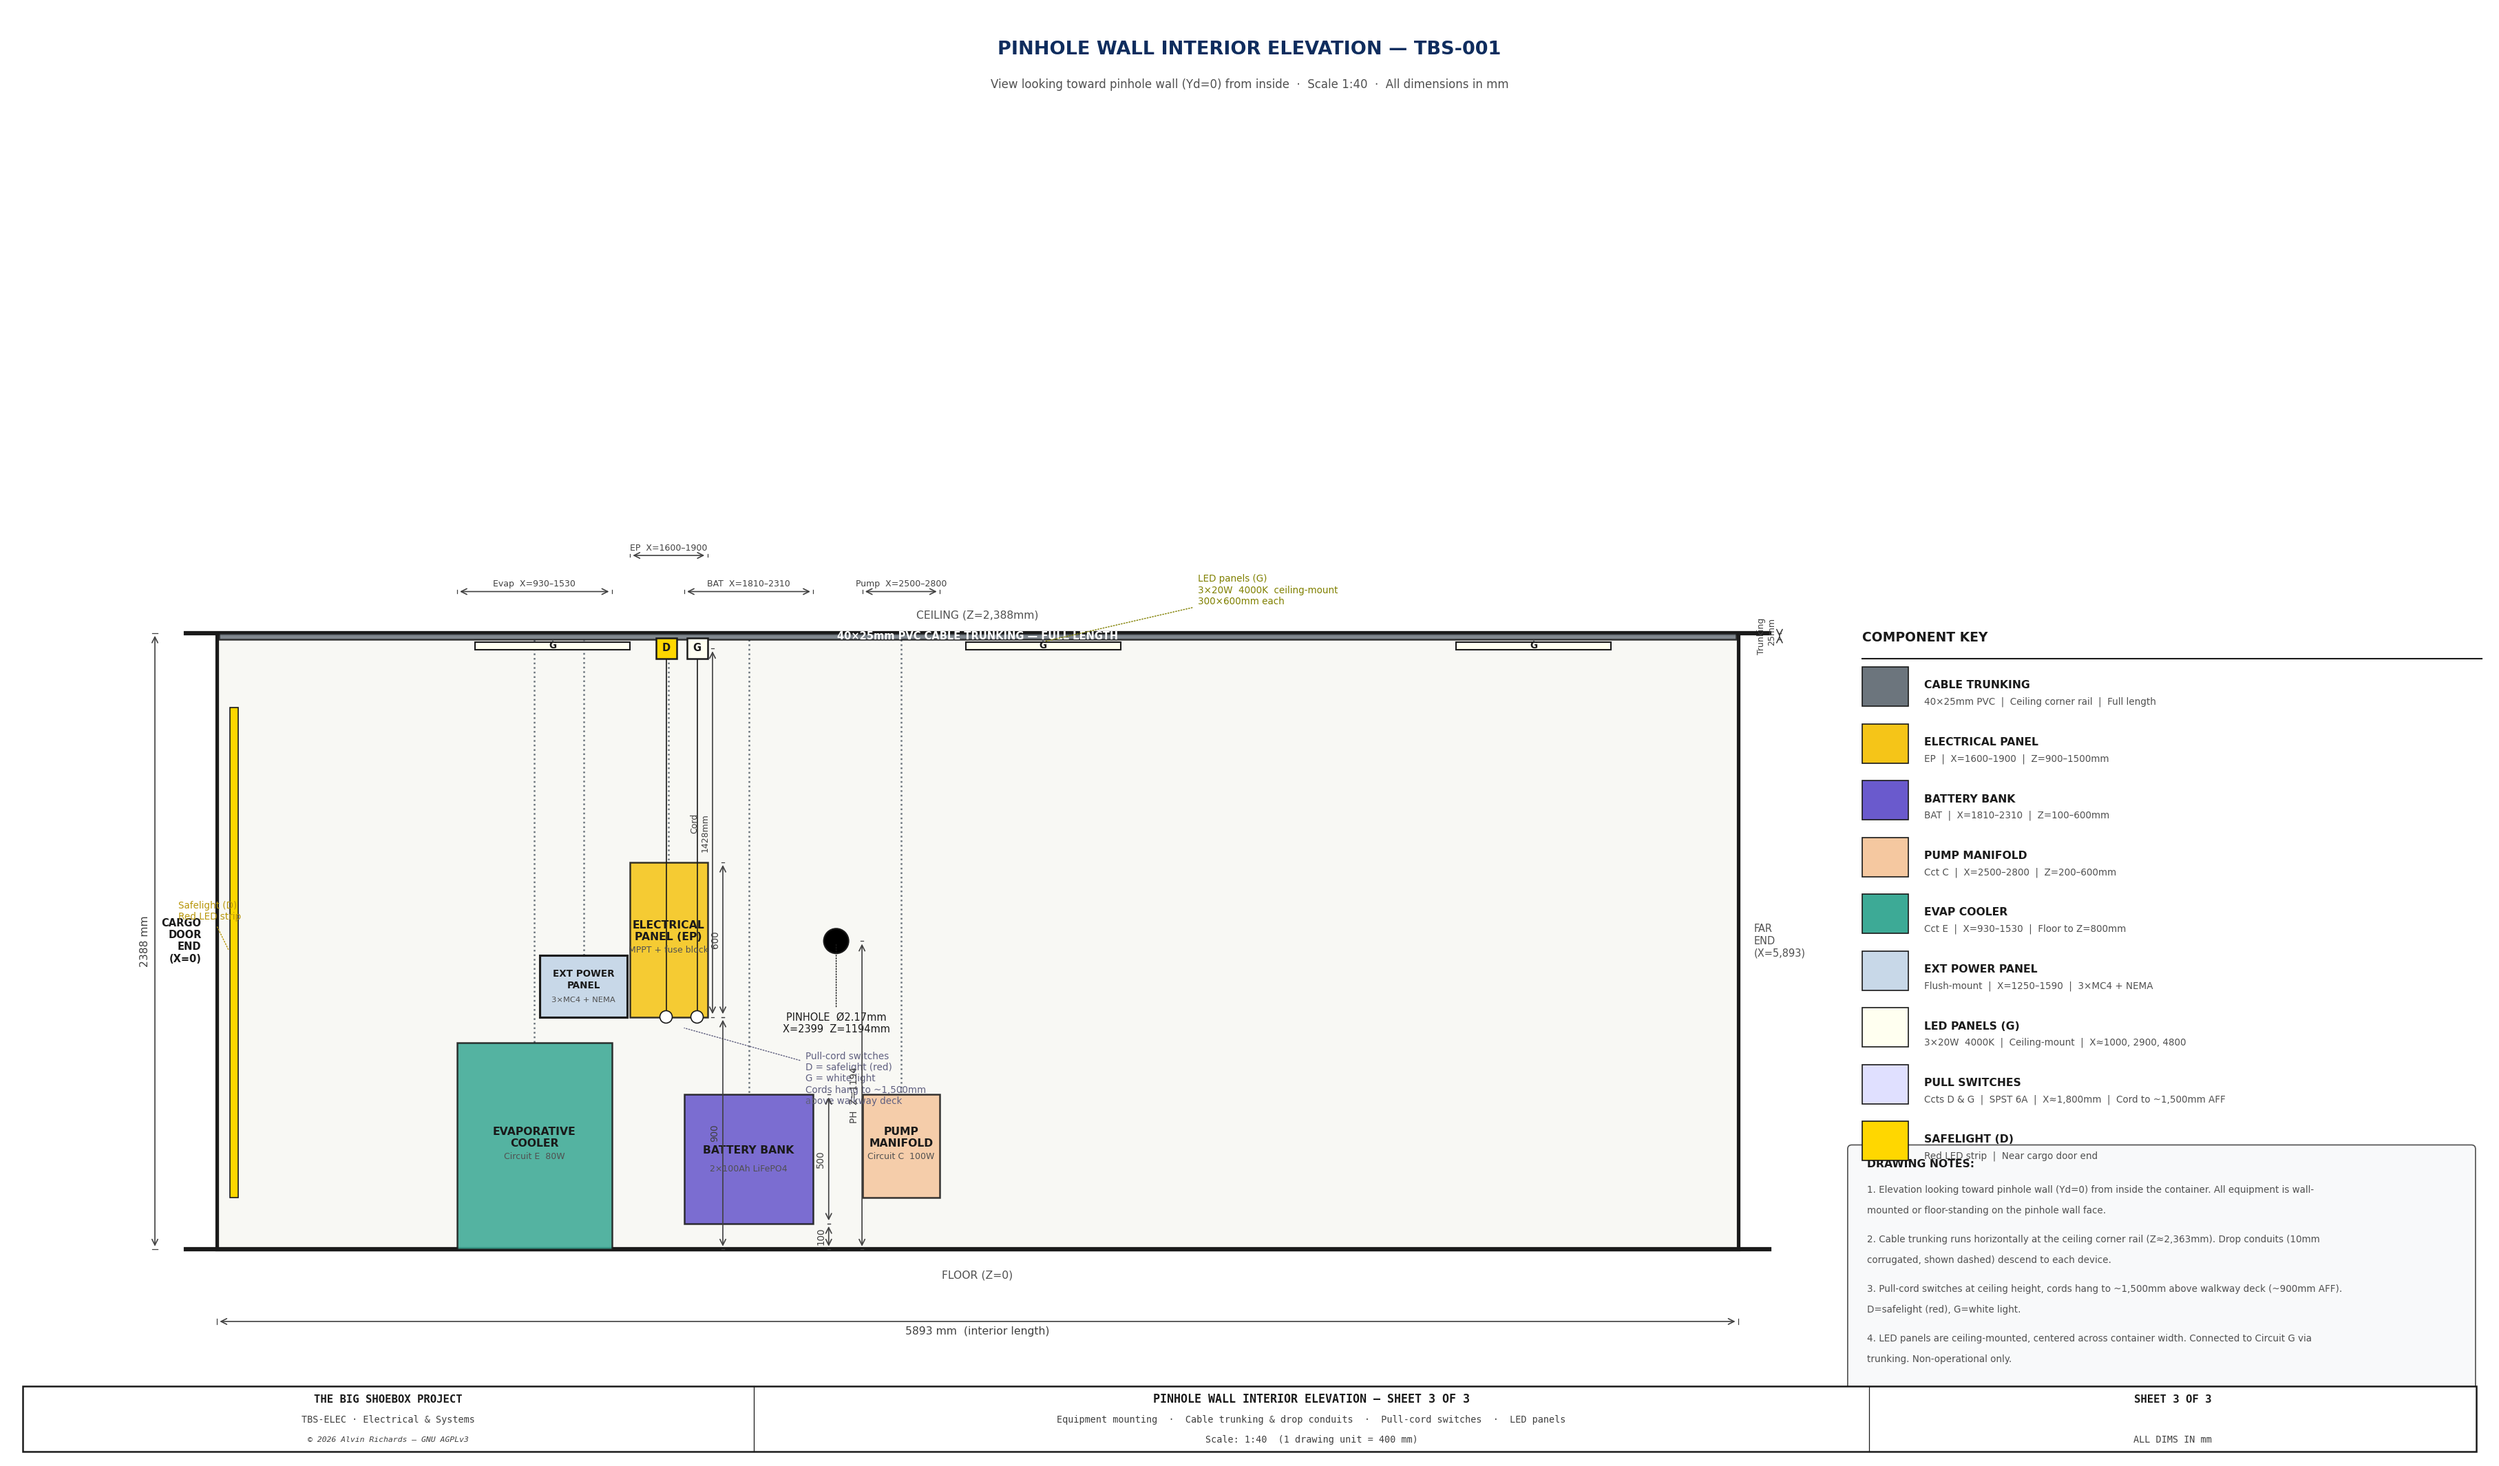
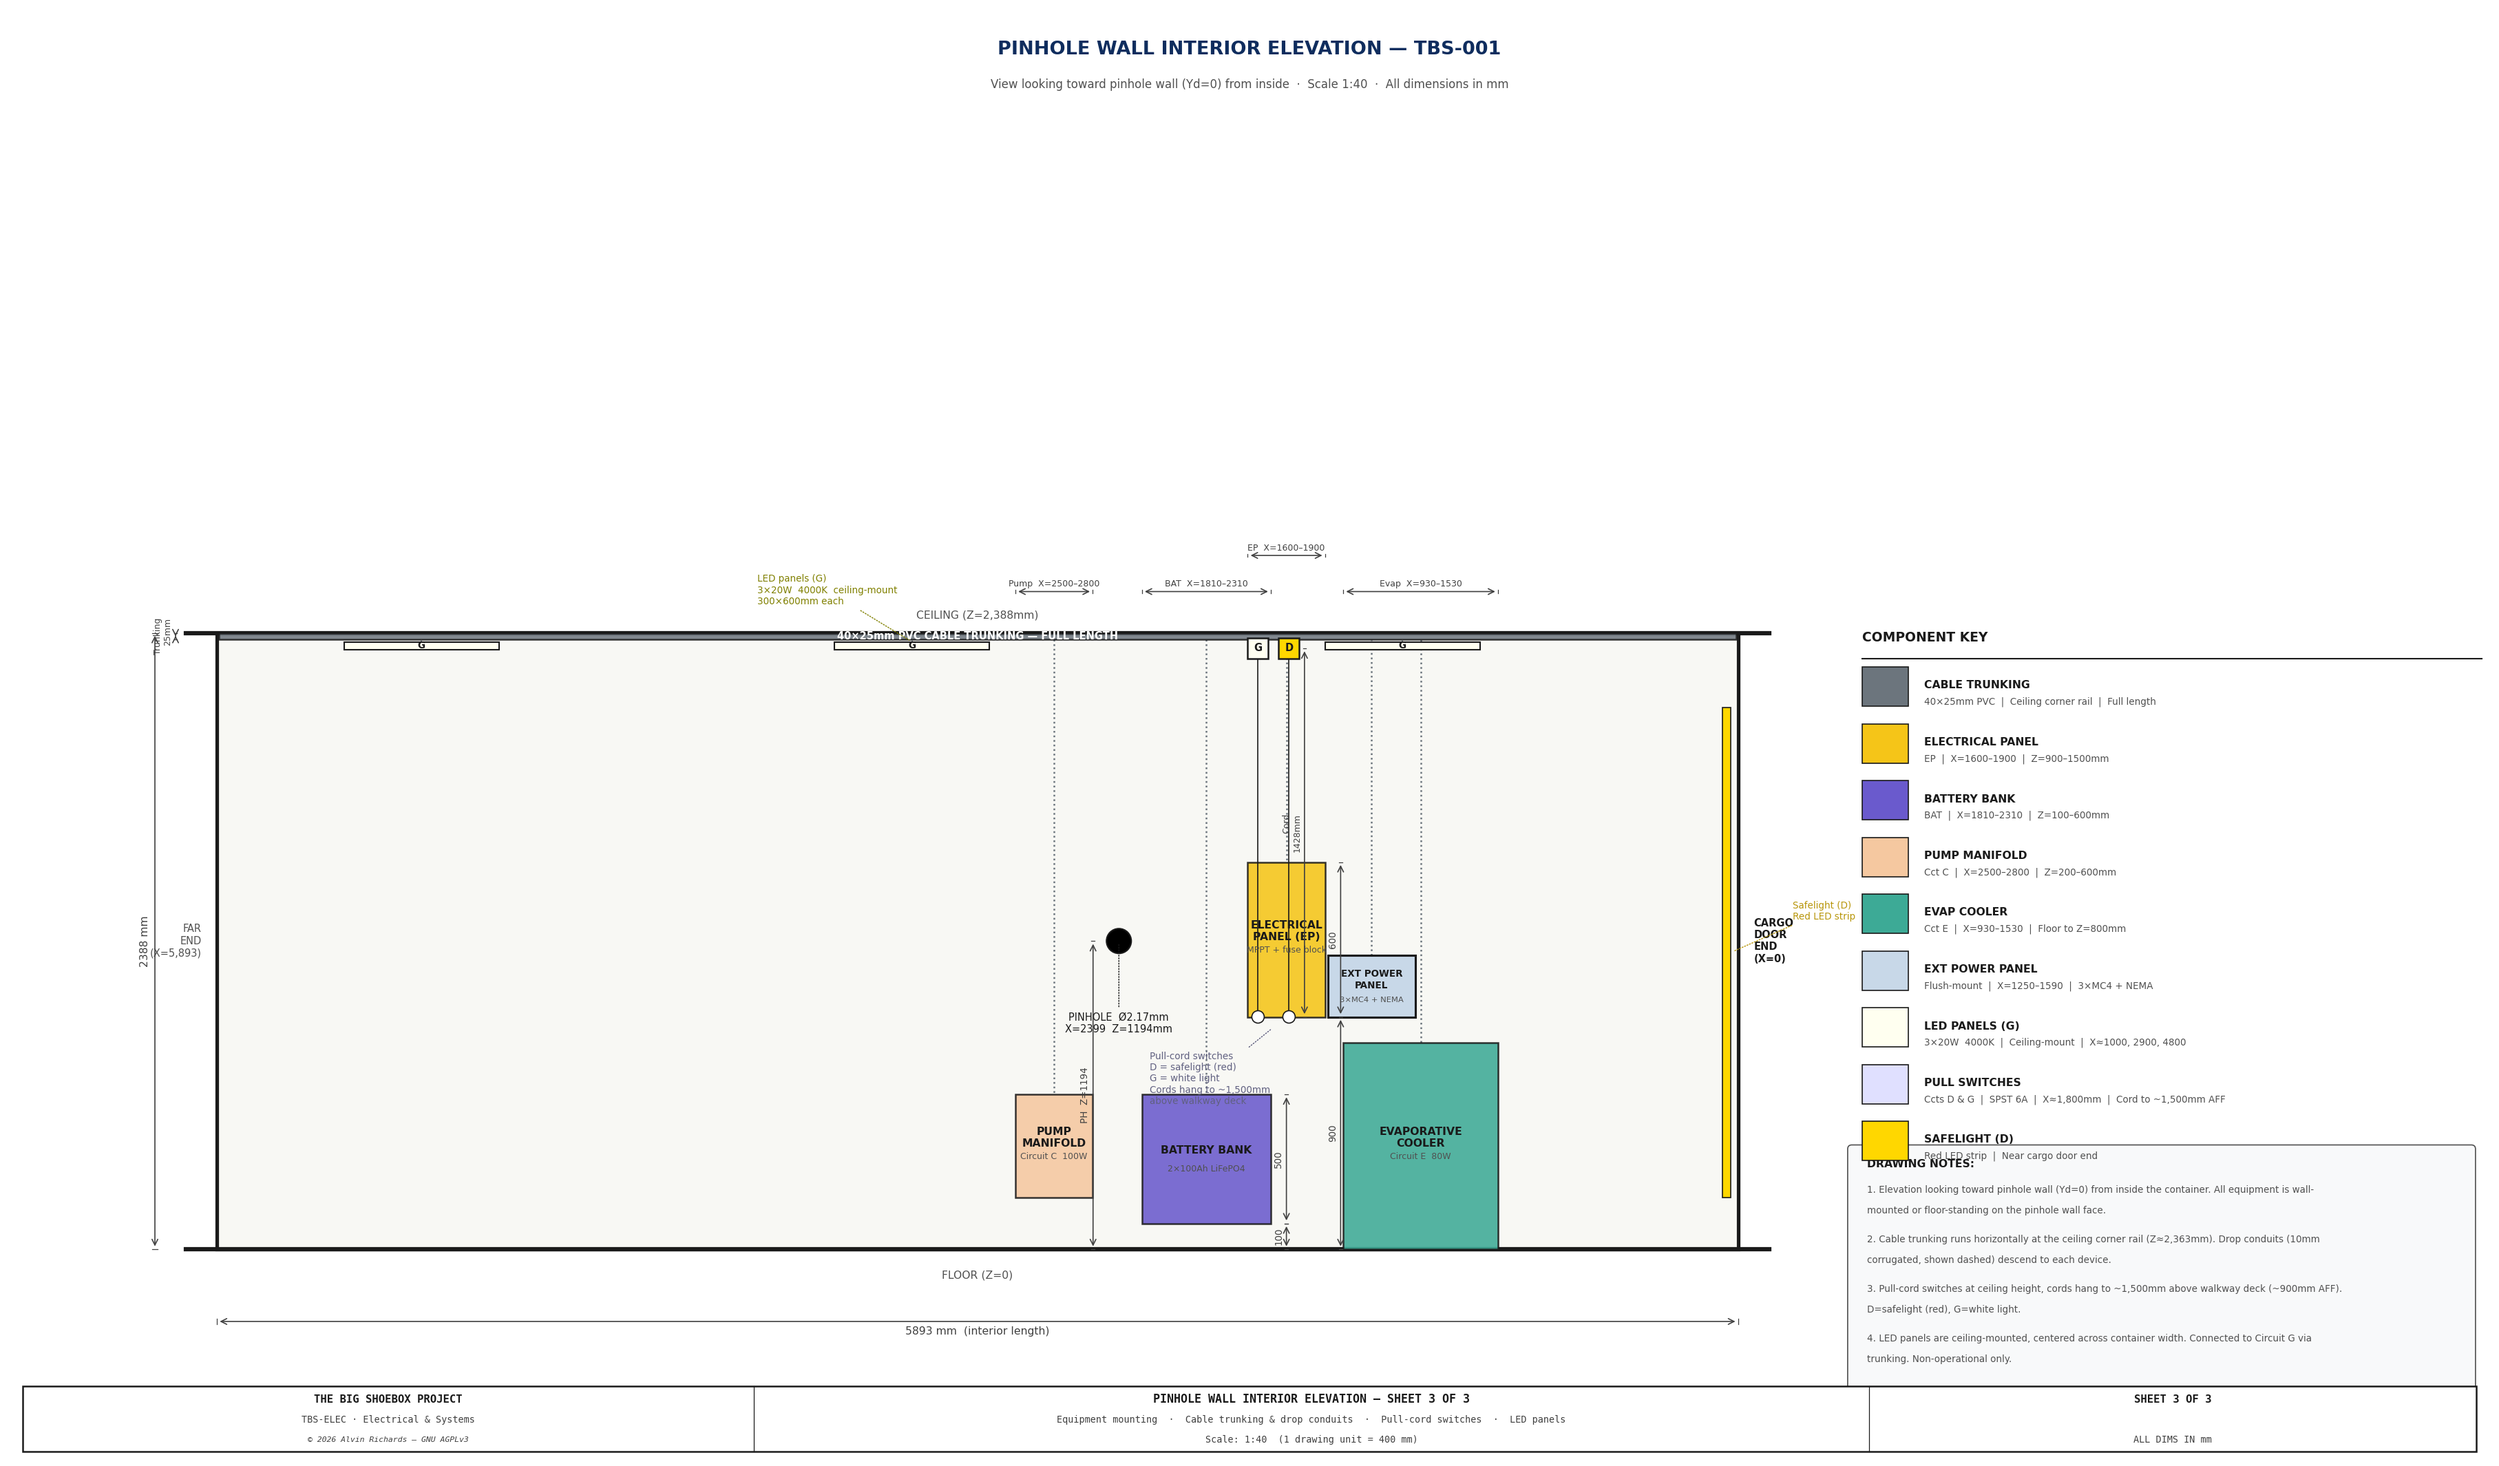
Mirror sheet 3 to interior view: cargo door end on right

diff --git a/generate_electrical_diagram.py b/generate_electrical_diagram.py
@@ -895,7 +895,7 @@ def draw_sheet2():
 #
 # ORIENTATION:
 #   Viewer stands inside container looking toward the pinhole wall (Yd=0).
-#   Horizontal axis = container X (0=cargo door LEFT, 5893=far end RIGHT).
+#   Horizontal axis = container X mirrored (0=cargo door RIGHT, 5893=far end LEFT).
 #   Vertical axis = Z (0=floor, 2388=ceiling).
 #   Equipment mounted on the wall face is drawn at actual X and Z positions.
 # ─────────────────────────────────────────────────────────────────────────────
@@ -946,8 +946,8 @@ def draw_sheet3():
     whgt = C_HGT * S     # wall height in drawing units
 
     def wx(x_mm):
-        """Map TBS X (mm) to drawing X coordinate."""
-        return OX + x_mm * S
+        """Map TBS X (mm) to drawing X coordinate (mirrored: interior view)."""
+        return OX + (C_LEN - x_mm) * S
 
     def wz(z_mm):
         """Map TBS Z (mm) to drawing Y coordinate."""
@@ -970,11 +970,11 @@ def draw_sheet3():
             ha="center", va="bottom", fontsize=7.5, color=C_DIM)
 
     # Wall labels
-    ax.text(OX - 0.15, OY + whgt / 2, "CARGO\nDOOR\nEND\n(X=0)",
-            ha="right", va="center", fontsize=7.0, color=C_OUT,
+    ax.text(OX - 0.15, OY + whgt / 2, "FAR\nEND\n(X=5,893)",
+            ha="right", va="center", fontsize=7.0, color=C_DIM)
+    ax.text(OX + wlen + 0.15, OY + whgt / 2, "CARGO\nDOOR\nEND\n(X=0)",
+            ha="left", va="center", fontsize=7.0, color=C_OUT,
             fontweight="bold")
-    ax.text(OX + wlen + 0.15, OY + whgt / 2, "FAR\nEND\n(X=5,893)",
-            ha="left", va="center", fontsize=7.0, color=C_DIM)
 
     # ── Cable trunking — horizontal at ceiling corner ─────────────────────────
     TK_H_MM = 25    # trunking height (mm)
@@ -991,7 +991,7 @@ def draw_sheet3():
 
     # ── Helper: wall-mount equipment box ──────────────────────────────────────
     def wall_equip(x_mm, z_lo, z_hi, w_mm, label, sublabel, fc, badge=""):
-        ex = wx(x_mm)
+        ex = wx(x_mm + w_mm)   # mirrored: right edge of component maps to left in drawing
         ey = wz(z_lo)
         ew = w_mm * S
         eh = (z_hi - z_lo) * S
@@ -1014,7 +1014,7 @@ def draw_sheet3():
     # Centered vertically at ~EP mounting height
     PP_Z_LO = EP_H_LO   # align with bottom of EP
     PP_Z_HI = PP_Z_LO + PWR_PANEL_H
-    pp_x = wx(PWR_PANEL_X)
+    pp_x = wx(PWR_PANEL_X + PWR_PANEL_W)   # mirrored
     pp_y = wz(PP_Z_LO)
     pp_w = PWR_PANEL_W * S
     pp_h = PWR_PANEL_H * S
@@ -1086,7 +1086,7 @@ def draw_sheet3():
 
     # Pull switch label
     leader(ax, wx(PS_X_MM), wz(CORD_HANG_Z) - 0.1,
-           wx(PS_X_MM) + 1.2, wz(CORD_HANG_Z) - 0.6,
+           wx(PS_X_MM) - 1.2, wz(CORD_HANG_Z) - 0.6,
            "Pull-cord switches\nD = safelight (red)\nG = white light\nCords hang to ~1,500mm\nabove walkway deck",
            fs=6.5, color="#606080")
 
@@ -1097,7 +1097,7 @@ def draw_sheet3():
     LED_POSITIONS = [1000, 2900, 4800]
     C_LED = "#FFFFF0"
     for lp_x in LED_POSITIONS:
-        lx = wx(lp_x)
+        lx = wx(lp_x + LED_W_MM)   # mirrored
         lz = wz(LED_Z)
         lw = LED_W_MM * S
         lh = LED_H_MM * S
@@ -1114,7 +1114,7 @@ def draw_sheet3():
     mid_led_cx = wx(LED_POSITIONS[1] + LED_W_MM / 2)
     mid_led_cz = wz(LED_Z + LED_H_MM)
     leader(ax, mid_led_cx, mid_led_cz,
-           mid_led_cx + 1.5, mid_led_cz + 0.5,
+           mid_led_cx - 1.5, mid_led_cz + 0.5,
            "LED panels (G)\n3×20W  4000K  ceiling-mount\n300×600mm each",
            fs=6.5, color="#808000")
 
@@ -1125,14 +1125,14 @@ def draw_sheet3():
     SL_W_MM = 10      # thin strip
     SL_Z_LO = 200
     SL_Z_HI = 2100
-    sl_x = wx(SL_X_MM)
+    sl_x = wx(SL_X_MM + SL_W_MM)   # mirrored
     sl_z = wz(SL_Z_LO)
     sl_w = max(SL_W_MM * S, 0.08)
     sl_h = (SL_Z_HI - SL_Z_LO) * S
     ax.add_patch(mpatches.Rectangle((sl_x, sl_z), sl_w, sl_h,
                  fc="#FFD700", ec=C_OUT, lw=0.8, zorder=5))
-    leader(ax, sl_x, sl_z + sl_h / 2,
-           sl_x - 0.5, sl_z + sl_h / 2 + 0.4,
+    leader(ax, sl_x + sl_w, sl_z + sl_h / 2,
+           sl_x + sl_w + 0.6, sl_z + sl_h / 2 + 0.4,
            "Safelight (D)\nRed LED strip",
            fs=6.5, color="#B8960A")
 
@@ -1146,45 +1146,45 @@ def draw_sheet3():
                f"{TBS_C_HGT} mm",
                offset=0.08, fs=7.5)
 
-    # EP height dimensions
-    ep_x_r = wx(EP_X + EP_W)
-    draw_dim_v(ax, ep_x_r + 0.15, OY, wz(EP_H_LO),
+    # EP height dimensions — dim line to the left of EP (mirrored)
+    ep_x_l = wx(EP_X)  # right edge in drawing (mirrored)
+    draw_dim_v(ax, ep_x_l + 0.15, OY, wz(EP_H_LO),
                f"{EP_H_LO}", offset=0.05, fs=6.5)
-    draw_dim_v(ax, ep_x_r + 0.15, wz(EP_H_LO), wz(EP_H_HI),
+    draw_dim_v(ax, ep_x_l + 0.15, wz(EP_H_LO), wz(EP_H_HI),
                f"{EP_H_HI - EP_H_LO}", offset=0.05, fs=6.5)
 
-    # Battery height dimensions
-    ba_x_r = wx(BA_X + BA_W)
-    draw_dim_v(ax, ba_x_r + 0.15, OY, wz(BA_H_LO),
+    # Battery height dimensions — dim line to the left of BAT (mirrored)
+    ba_x_l = wx(BA_X)  # right edge in drawing (mirrored)
+    draw_dim_v(ax, ba_x_l + 0.15, OY, wz(BA_H_LO),
                f"{BA_H_LO}", offset=0.05, fs=6.5)
-    draw_dim_v(ax, ba_x_r + 0.15, wz(BA_H_LO), wz(BA_H_HI),
+    draw_dim_v(ax, ba_x_l + 0.15, wz(BA_H_LO), wz(BA_H_HI),
                f"{BA_H_HI - BA_H_LO}", offset=0.05, fs=6.5)
 
     # Pinhole height
-    draw_dim_v(ax, ph_x + 0.25, OY, wz(PH_H),
+    draw_dim_v(ax, ph_x - 0.25, OY, wz(PH_H),
                f"PH  Z={PH_H}", offset=0.05, fs=6.5)
 
     # Trunking height callout
-    draw_dim_v(ax, OX + wlen + 0.40, wz(TK_Z), OY + whgt,
+    draw_dim_v(ax, OX - 0.40, wz(TK_Z), OY + whgt,
                f"Trunking\n{TK_H_MM}mm", offset=0.05, fs=6.0)
 
     # Pull switch cord length
-    ps_dim_x = wx(PS_X_MM + 120)
+    ps_dim_x = wx(PS_X_MM - 120)  # mirrored offset
     draw_dim_v(ax, ps_dim_x, wz(CORD_HANG_Z), wz(PS_Z_MM),
                f"Cord\n{PS_Z_MM - CORD_HANG_Z}mm", offset=0.05, fs=6.0)
 
     # ── Horizontal X dimensions for key equipment ─────────────────────────────
     DIM_Z_TOP = OY + whgt + 0.40
-    draw_dim_h(ax, wx(EVAP_X), wx(EVAP_X + EVAP_W), DIM_Z_TOP,
+    draw_dim_h(ax, wx(EVAP_X + EVAP_W), wx(EVAP_X), DIM_Z_TOP,
                f"Evap  X={EVAP_X}–{EVAP_X+EVAP_W}",
                above=True, offset=0.05, fs=6.0)
-    draw_dim_h(ax, wx(EP_X), wx(EP_X + EP_W), DIM_Z_TOP + 0.35,
+    draw_dim_h(ax, wx(EP_X + EP_W), wx(EP_X), DIM_Z_TOP + 0.35,
                f"EP  X={EP_X}–{EP_X+EP_W}",
                above=True, offset=0.05, fs=6.0)
-    draw_dim_h(ax, wx(BA_X), wx(BA_X + BA_W), DIM_Z_TOP,
+    draw_dim_h(ax, wx(BA_X + BA_W), wx(BA_X), DIM_Z_TOP,
                f"BAT  X={BA_X}–{BA_X+BA_W}",
                above=True, offset=0.05, fs=6.0)
-    draw_dim_h(ax, wx(PUMP_X), wx(PUMP_X + PUMP_W), DIM_Z_TOP,
+    draw_dim_h(ax, wx(PUMP_X + PUMP_W), wx(PUMP_X), DIM_Z_TOP,
                f"Pump  X={PUMP_X}–{PUMP_X+PUMP_W}",
                above=True, offset=0.05, fs=6.0)
 
